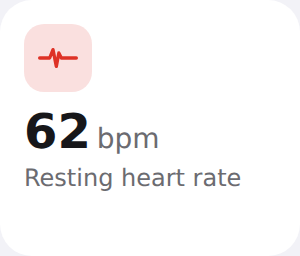
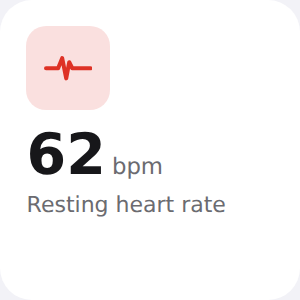
Widget: make Health tile a true square (aspect-ratio height)
App widgets fill their dashboard column width, so a fixed pixel height
rendered the single-metric tile as a wide bar. Set height to "100%" so
Homey treats it as a 1:1 aspect ratio (square). Content now scales with
the tile (clamped vmin) so it looks right whether kept large or dragged
down to a small square in the dashboard editor.

Claude-Session: https://claude.ai/code/session_01DJYH2Uzg8mFeqHioWKuSrX

diff --git a/widgets/health-tile/public/index.html b/widgets/health-tile/public/index.html
@@ -8,19 +8,22 @@
       font-family: var(--homey-font);
       color: var(--homey-text-color);
     }
+    /* Square widget (aspect ratio from compose "height":"100%"). Sizes scale
+       with the tile (vmin) but are clamped, so it looks right whether the user
+       keeps it large or drags it down to a small square. */
     .tile {
       display: flex;
       flex-direction: column;
       justify-content: space-between;
       height: 100%;
       box-sizing: border-box;
-      padding: var(--homey-su-3);
+      padding: clamp(10px, 7vmin, 22px);
       gap: var(--homey-su-2);
     }
     .icon {
       flex: none;
-      width: 34px;
-      height: 34px;
+      width: clamp(30px, 22vmin, 60px);
+      height: clamp(30px, 22vmin, 60px);
       border-radius: var(--homey-border-radius-default);
       display: flex;
       align-items: center;
@@ -28,7 +31,7 @@
       color: var(--accent, var(--homey-text-color));
       background: color-mix(in srgb, var(--accent, var(--homey-text-color)) 15%, transparent);
     }
-    .icon svg { width: 20px; height: 20px; display: block; }
+    .icon svg { width: 58%; height: 58%; display: block; }
     .foot { min-width: 0; }
     .value {
       display: flex;
@@ -36,19 +39,19 @@
       gap: 3px;
     }
     .value .v {
-      font-size: var(--homey-font-size-xlarge);
+      font-size: clamp(20px, 15vmin, 44px);
       line-height: 1.05;
       font-weight: var(--homey-font-weight-bold);
       white-space: nowrap;
     }
     .value .u {
-      font-size: var(--homey-font-size-small);
+      font-size: clamp(11px, 6vmin, 18px);
       color: var(--homey-text-color-light);
       white-space: nowrap;
     }
     .label {
       margin-top: 3px;
-      font-size: 12px;
+      font-size: clamp(11px, 5.5vmin, 15px);
       line-height: 1.2;
       color: var(--homey-text-color-light);
       display: -webkit-box;